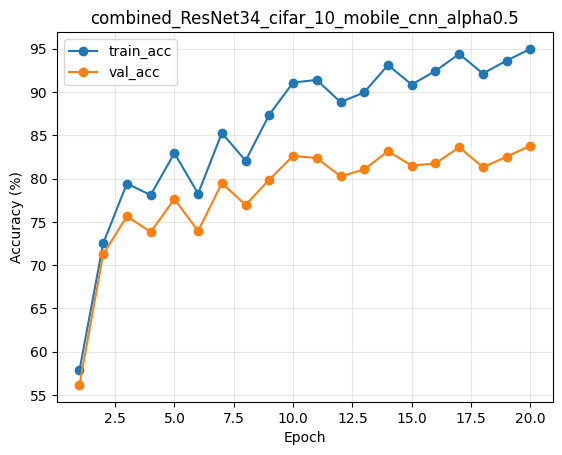
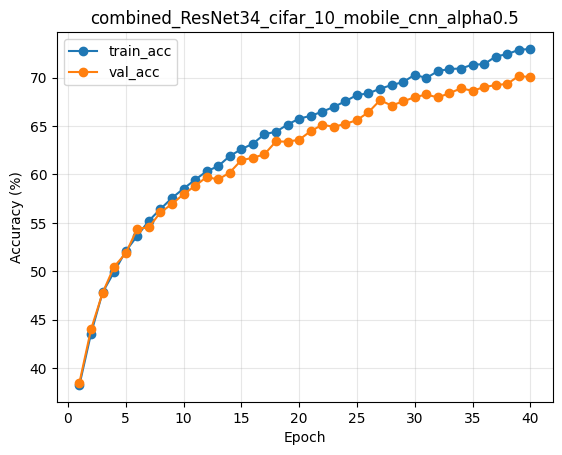
lr scheduler test

diff --git a/trainers/model_trainer.py b/trainers/model_trainer.py
@@ -76,7 +76,7 @@ class ModelTrainer:
         return accuracy
 
 class ModelTrainerCombined:
-    def __init__(self, model, lr, epochs, batch_size=32, optimizer_cls=torch.optim.Adam, device=None, criterion=None):
+    def __init__(self, model, lr, epochs, batch_size=32, optimizer_cls=torch.optim.Adam, device=None, criterion=None, scheduler="none", lr_min=0.0):
         self.model = model
         self.epochs = epochs
         self.batch_size = batch_size
@@ -85,6 +85,12 @@ class ModelTrainerCombined:
         self.optimizer = optimizer_cls(
             filter(lambda p: p.requires_grad, model.parameters()), lr=lr
         )
+        if scheduler == "cosine":
+            self.scheduler = torch.optim.lr_scheduler.CosineAnnealingLR(
+                self.optimizer, T_max=epochs, eta_min=lr_min
+            )
+        else:
+            self.scheduler = None
 
     def fit(self, dataset, train_eval_dataset=None, val_dataset=None):
         self.model.to(self.device)
@@ -92,7 +98,7 @@ class ModelTrainerCombined:
         loader = DataLoader(dataset, batch_size=self.batch_size, shuffle=True)
 
         track_acc = train_eval_dataset is not None or val_dataset is not None
-        history = {"total": [], "mse": [], "ce": []}
+        history = {"total": [], "mse": [], "ce": [], "lr": []}
         if track_acc:
             history["train_acc"] = []
             history["val_acc"] = []
@@ -129,15 +135,18 @@ class ModelTrainerCombined:
             avg_mse = running_mse / len(loader)
             avg_ce = running_ce / len(loader)
 
+            current_lr = self.optimizer.param_groups[0]["lr"]
             history["total"].append(avg_total)
             history["mse"].append(avg_mse)
             history["ce"].append(avg_ce)
+            history["lr"].append(current_lr)
 
             msg = (
                 f"Epoch {epoch + 1}/{self.epochs} -> "
                 f"Total Loss: {avg_total:.4f} | "
                 f"MSE (Feature): {avg_mse:.4f} | "
-                f"CE (Classification): {avg_ce:.4f}"
+                f"CE (Classification): {avg_ce:.4f} | "
+                f"LR: {current_lr:.2e}"
             )
 
             if track_acc:
@@ -150,6 +159,9 @@ class ModelTrainerCombined:
                 msg += f" | Train Acc: {train_acc:.2f}% | Val Acc: {val_acc:.2f}%"
 
             print(msg)
+
+            if self.scheduler is not None:
+                self.scheduler.step()
 
         return history
 

diff --git a/distill_student.py b/distill_student.py
@@ -147,8 +147,8 @@ def _save_loss_curves(history, run_dir, run_name):
     """Plot every loss series in `history` against epoch and save to run_dir/loss_curve.png."""
     plt.figure()
     for label, values in history.items():
-        if label.endswith("_acc"):
-            continue  # accuracy series are plotted separately by _save_accuracy_curves
+        if label.endswith("_acc") or label == "lr":
+            continue  # accuracy series are plotted separately; lr is on a different scale
         epochs = range(1, len(values) + 1)
         plt.plot(epochs, values, marker="o", label=label)
 
@@ -359,6 +359,8 @@ def distill_student_combined(config_path=None, alpha=0.5, cfg=None):
             epochs=cfg.training.distillation_epochs,
             batch_size=cfg.training.batch_size,
             criterion=combined_criterion,
+            scheduler=cfg.training.scheduler,
+            lr_min=cfg.training.lr_min,
         )
         history = trainer.fit(
             distillation_dataset,

diff --git a/run_comparison.py b/run_comparison.py
@@ -97,7 +97,7 @@ def _write_table(rows, out_dir, teacher_arch, dataset_name):
 def run_matrix(matrix_path=MATRIX_DEFAULT):
     matrix = _load_matrix(matrix_path)
     template_config = matrix["template_config"]
-    alpha = matrix.get("alpha", 0.5)
+    alpha = matrix.get("alpha", 0.8)
     teachers = matrix["teachers"]
     students = matrix["students"]
     datasets = matrix["datasets"]

diff --git a/config/config_loader.py b/config/config_loader.py
@@ -35,6 +35,8 @@ class TrainingConfig:
     distillation_epochs: int
     distillation_lr: float
     optimizer: str
+    scheduler: str = "none"
+    lr_min: float = 1e-5
 
 
 @dataclass
